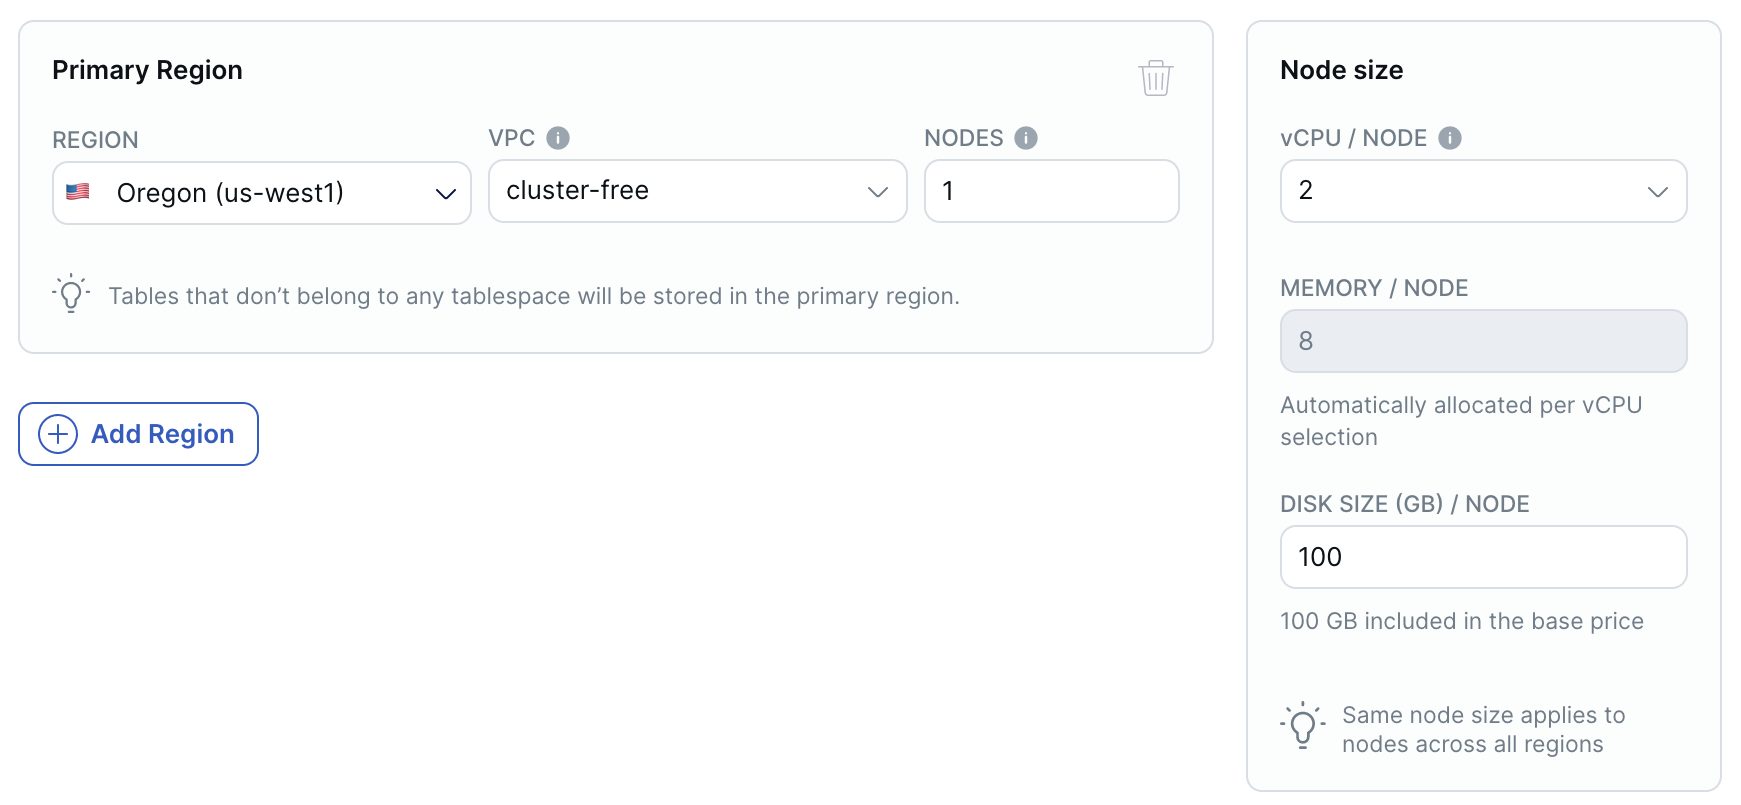
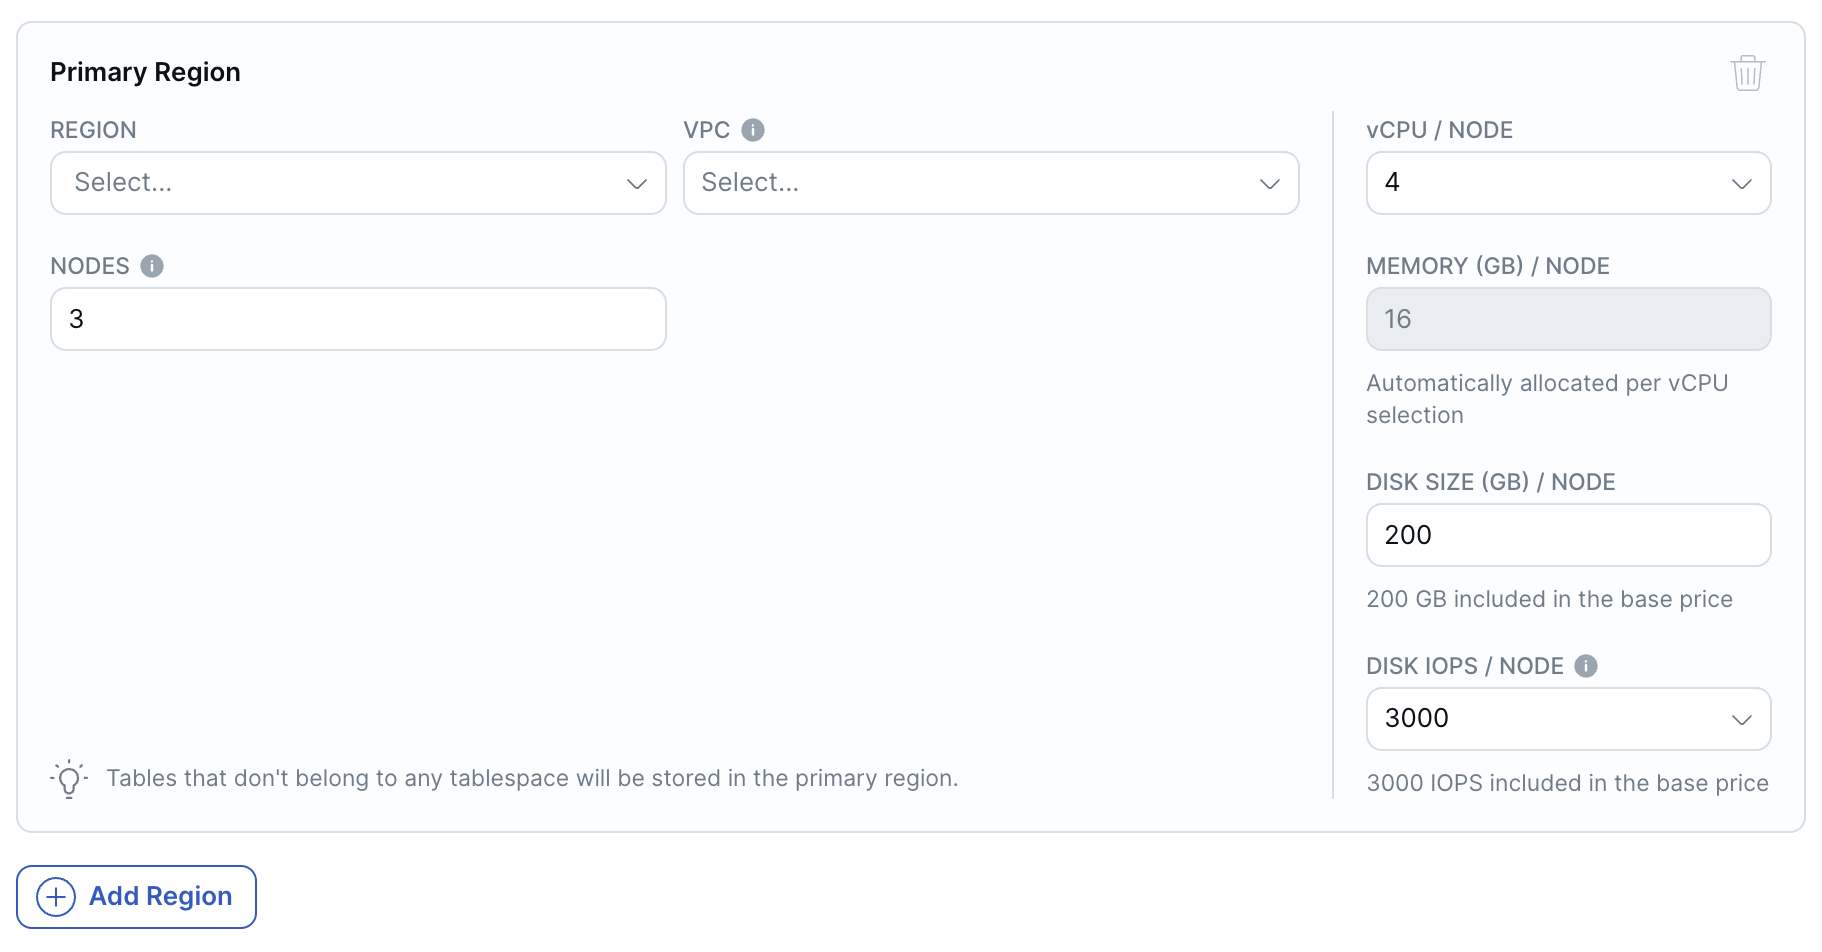
[doc][ybm] Partition by region asym node settings (#21385)
* partition by region node settings

* screen shot

* update CLI

* update CLI

* minor edit

* review comments

* cli help edits

* update screenshots

diff --git a/docs/content/preview/yugabyte-cloud/managed-automation/managed-cli/managed-cli-reference/managed-cli-cluster.md b/docs/content/preview/yugabyte-cloud/managed-automation/managed-cli/managed-cli-reference/managed-cli-cluster.md
@@ -75,11 +75,11 @@ Create a cluster.
 | &#8209;&#8209;database&#8209;version | Database version to use for the cluster. `Innovation`, `Production`, or `Preview`. |
 | --default-region | The primary region in a [partition-by-region](../../../../cloud-basics/create-clusters/create-clusters-geopartition/) cluster. The primary region is where all the tables not created in a tablespace reside. |
 | --encryption-spec | CMK credentials for encryption at rest, provided as key-value pairs.<br>Arguments:<ul><li>cloud-provider - cloud provider (`AWS`, `AZURE`, or `GCP`); required</li></ul>Required for AWS only:<ul><li>aws-access-key - access key ID</li><li>aws-secret-key - secret access key</li><li>aws-arn - Amazon resource name of the CMK</li></ul>If not provided, you are prompted for the secret access key. AWS secret access key can also be configured using the YBM_AWS_SECRET_KEY [environment variable](../../managed-cli-overview/#environment-variables).<br><br>Required for GCP only:<ul><li>gcp-resource-id - cloud KMS resource ID</li><li>gcp-service-account-path - path to the service account credentials key file</li></ul>Required for Azure only:<ul><li>azu-client-id - client ID of registered application</li><li>azu-client-secret - client secret of registered application</li><li>azu-tenant-id - Azure tenant ID</li><li>azu-key-name - key name</li><li>azu-key-vault-uri - key vault URI in the form `https://myvault.vault.azure.net`</li></ul> |
-| --fault-tolerance | Fault tolerance for the cluster. `NONE`, `NODE`, `ZONE`, or `REGION`. |
-| --node-config | Number of vCPUs, disk size, and IOPS per node for the cluster, provided as key-value pairs.<br>Arguments:<ul><li>num-cores - number of vCPUs per node</li><li>disk-size-gb - disk size in GB per node</li><li>disk-iops - disk IOPS per node (AWS only)</li></ul>If specified, num-cores is required and disk-size-gb and disk-iops are optional. |
-| --num-faults-to-tolerate | The number of faults to tolerate. 0 for NONE; 1 for ZONE; 1, 2, or 3 for NODE and REGION. Default is 1 (or 0 for NONE). |
+| --fault-tolerance | Fault domain for the cluster. `NONE`, `NODE`, `ZONE`, or `REGION`. |
+| --node-config <br> [Deprecated in v0.1.19] | Number of vCPUs, disk size, and IOPS per node for the cluster, provided as key-value pairs.<br>Arguments:<ul><li>num-cores - number of vCPUs per node</li><li>disk-size-gb - disk size in GB per node</li><li>disk-iops - disk IOPS per node (AWS only)</li></ul>If specified, num-cores is required and disk-size-gb and disk-iops are optional. |
+| --num-faults-to-tolerate | The number of fault domain failures. 0 for NONE; 1 for ZONE; 1, 2, or 3 for NODE and REGION. Default is 1 (or 0 for NONE). |
 | --preferred-region | The [preferred region](../../../../cloud-basics/create-clusters/create-clusters-multisync/#preferred-region) in a multi-region cluster. Specify the name of the region. |
-| --region-info | Region details for multi-region cluster, provided as key-value pairs.<br>Arguments:<ul><li>region - name of the region</li><li>num-nodes - number of nodes for the region</li><li>vpc - name of the VPC</li></ul>Specify one `--region-info` flag for each region in the cluster.<br>If specified, region and num-nodes is required, vpc is optional. |
+| --region-info | Required. Region details for the cluster, provided as key-value pairs.<br>Arguments:<ul><li>region - name of the region</li><li>num-nodes - number of nodes for the region</li><li>vpc - name of the VPC</li><li>num-cores - number of vCPUs per node</li><li>disk-size-gb - disk size in GB per node</li><li>disk-iops - disk IOPS per node (AWS only)</li></ul>Specify one `--region-info` flag for each region in the cluster.<br>If specified, region, num-nodes, num-cores, disk-size-gb are required. |
 
 ### delete
 
@@ -165,7 +165,8 @@ Update the specified cluster.
 | --cluster-tier | Type of cluster. `Sandbox` or `Dedicated`. |
 | --cluster-type | Deployment type. `SYNCHRONOUS` or `GEO_PARTITIONED`. |
 | &#8209;&#8209;database&#8209;version | Database version to use for the cluster. `Innovation`, `Production`, or `Preview`. |
-| --fault-tolerance | Fault tolerance for the cluster. `NONE`, `NODE`, `ZONE`, or `REGION`. |
+| --fault-tolerance | Fault domain for the cluster. `NONE`, `NODE`, `ZONE`, or `REGION`. |
 | --new-name | The new name for the cluster. |
-| --node-config | Number of vCPUs and disk size per node for the cluster, provided as key-value pairs.<br>Arguments:<ul><li>num-cores - number of vCPUs per node</li><li>disk-size-gb - disk size in GB per node</li><li>disk-iops - disk IOPS per node (AWS only)</li></ul>If specified, num-cores is required and disk-size-gb and disk-iops are optional. |
-| --region-info | Region details for multi-region cluster, provided as key-value pairs.<br>Arguments:<ul><li>region - name of the region</li><li>num-nodes - number of nodes for the region</li><li>vpc - name of the VPC</li></ul>Specify one `--region-info` flag for each region in the cluster.<br>If specified, region and num-nodes is required, vpc is optional. |
+| --node-config <br> [Deprecated in v0.1.19] | Number of vCPUs and disk size per node for the cluster, provided as key-value pairs.<br>Arguments:<ul><li>num-cores - number of vCPUs per node</li><li>disk-size-gb - disk size in GB per node</li><li>disk-iops - disk IOPS per node (AWS only)</li></ul>If specified, num-cores is required and disk-size-gb and disk-iops are optional. |
+| --num-faults-to-tolerate | The number of fault domain failures. 0 for NONE; 1 for ZONE; 1, 2, or 3 for NODE and REGION. Default is 1 (or 0 for NONE). |
+| --region-info | Region details for multi-region cluster, provided as key-value pairs.<br>Arguments:<ul><li>region - name of the region</li><li>num-nodes - number of nodes for the region</li><li>vpc - name of the VPC</li><li>num-cores - number of vCPUs per node</li><li>disk-size-gb - disk size in GB per node</li><li>disk-iops - disk IOPS per node (AWS only)</li></ul>Specify one `--region-info` flag for each region in the cluster.<br>If specified, region, num-nodes, num-cores, disk-size-gb are required. |

diff --git a/docs/content/preview/yugabyte-cloud/cloud-basics/create-clusters/create-clusters-geopartition.md b/docs/content/preview/yugabyte-cloud/cloud-basics/create-clusters/create-clusters-geopartition.md
@@ -39,6 +39,7 @@ Partition-by-region clusters include the following features:
 
 - Multi node clusters with availability zone- or node-level fault tolerance.
 - No limit on cluster size - choose any cluster size based on your use case.
+- Size each region to its load - add extra horsepower in high-traffic regions, and provision lower-traffic regions with fewer nodes.
 - Horizontal and vertical scaling - add or remove nodes and vCPUs, and add storage to suit your production loads.
 - VPC networking required.
 - Automated and on-demand backups.
@@ -91,13 +92,14 @@ Fault tolerance is applied to all regions in the cluster, including those added 
 
 **Regions** - For each region, choose the following:
 
-- the [region](../../create-clusters-overview/#cloud-provider-regions) where the nodes will be located.
-- the VPC in which to deploy the nodes. Only VPCs using the selected cloud provider and available in the selected region are listed. For multi-region GCP clusters, the same VPC is used for all regions. VPCs must be created before deploying the cluster. Refer to [VPC networking](../../cloud-vpcs/).
-- the number of nodes to deploy in the regions; each region has the same number of nodes.
+- [region](../../create-clusters-overview/#cloud-provider-regions) where the nodes will be located.
+- VPC in which to deploy the nodes. Only VPCs using the selected cloud provider and available in the selected region are listed. For multi-region GCP clusters, the same VPC is used for all regions. VPCs must be created before deploying the cluster. Refer to [VPC networking](../../cloud-vpcs/).
+- number of nodes to deploy in the region.
+- number of virtual CPUs per node.
+- disk size per node.
+- disk input output (I/O) operations per second (IOPS) per node (AWS only).
 
 To add additional regions to the cluster, click **Add Region**.
-
-**Node size** - enter the number of virtual CPUs per node and the disk size per node (in GB).
 
 Partiton-by-region clusters support both horizontal and vertical scaling; you can add regions and change the cluster configuration after the cluster is created. Refer to [Scale and configure clusters](../../../cloud-clusters/configure-clusters/#partition-by-region-cluster).
 

diff --git a/docs/content/preview/yugabyte-cloud/cloud-clusters/configure-clusters.md b/docs/content/preview/yugabyte-cloud/cloud-clusters/configure-clusters.md
@@ -125,9 +125,7 @@ To scale a partition-by-region cluster:
 
 1. To scale the cluster horizontally, enter the number of nodes for each region.
 
-1. To scale the cluster vertically, enter the number of vCPUs per node, disk size in GB per node, and disk input output (I/O) operations per second (IOPS) per node (AWS only).
-
-    You can scale the number of nodes in each region independently, however the same node sizes apply across all regions.
+1. To scale the cluster vertically, enter the number of vCPUs per node, disk size in GB per node, and disk input output (I/O) operations per second (IOPS) per node (AWS only) for each region.
 
     Monthly total costs for the cluster are based on the number of vCPUs and estimated automatically. **+ Usage** refers to any potential overages from exceeding the free allowances for disk storage, backup storage, and data transfer. For information on how clusters are costed, refer to [Cluster costs](../../cloud-admin/cloud-billing-costs/).
 
